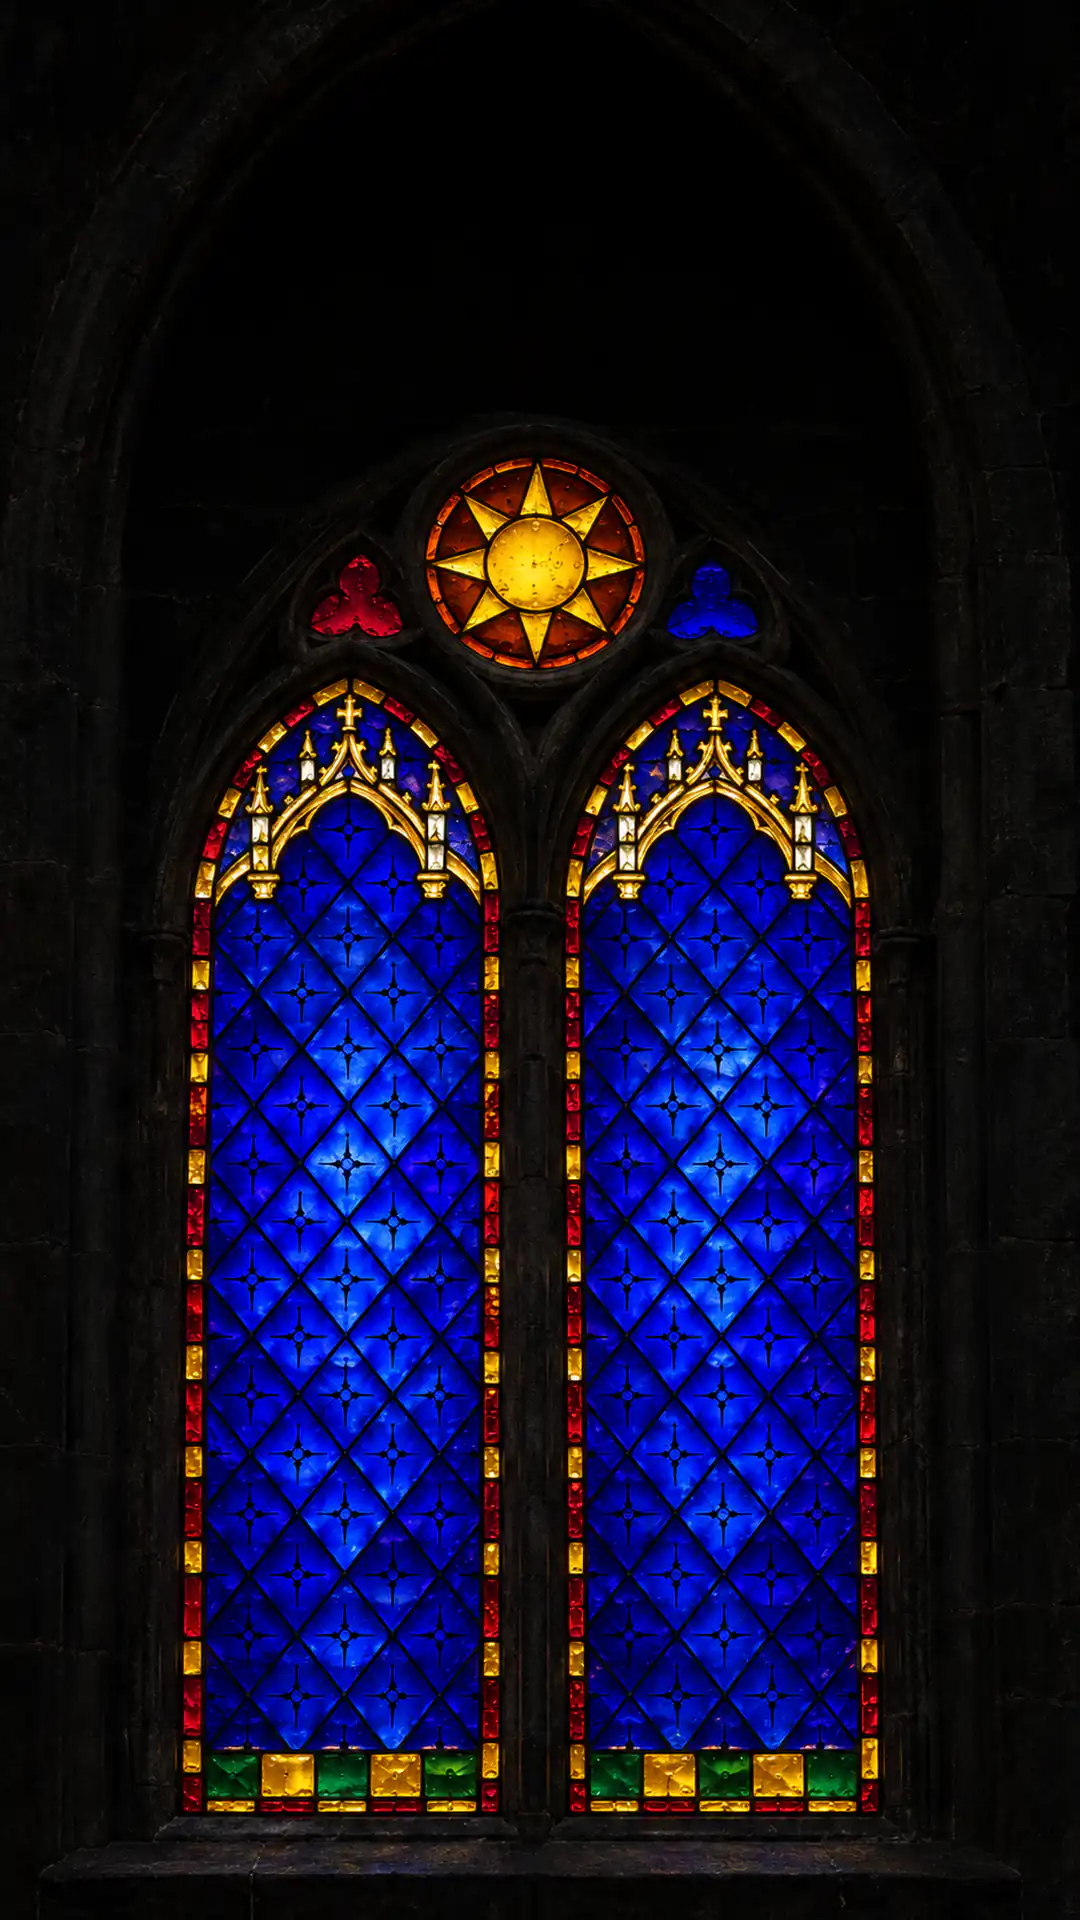
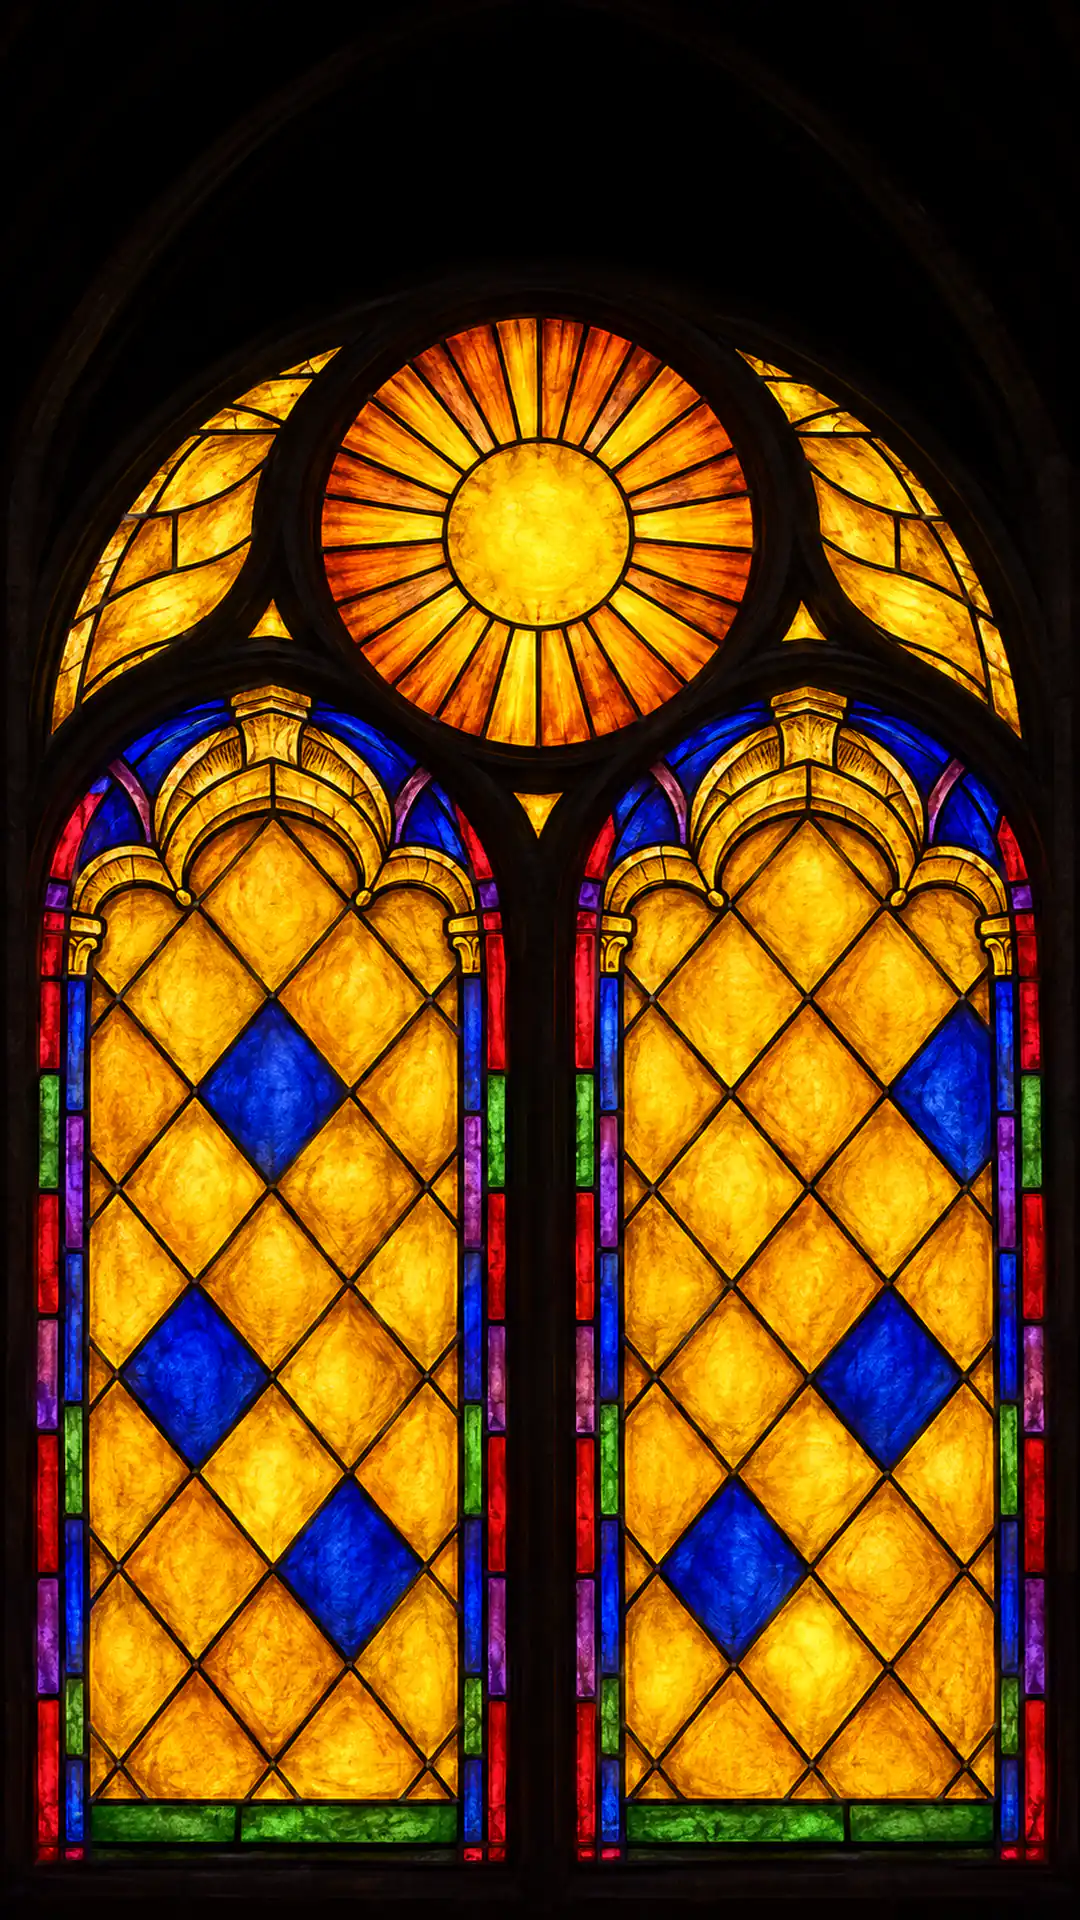
feat(pond): make the chosen gold window the stained glass bed
Of the six candidates drawn after the owner's photograph, wide-2 and
tall-2 were chosen: a gold diaper ground with a fine painted sprig on
each quarry, a few cobalt quarries, jewel borders and gold canopies.
They become bed.webp and bed-tall.webp, enlarged from the lossless
originals and not generated again.

The wide bed has its line in the size check (271 KB): below quality
75 the painted sprigs smear. The upright one is 175 KB against the
120 asked, for the same reason.

bed-right.webp is the candidate the brief asks for beside the bed:
the same picture at nine tenths, set to the right and bottom, the
wall carried on left and above, so the window starts at 39% of the
width and stands clear of the top with no glass redrawn.

The six review pictures are removed; their report and prompts stay.

diff --git a/docs/agents/pond.md b/docs/agents/pond.md
@@ -1085,12 +1085,12 @@ Everything else is ruled in the shader. Nothing more wanted.
 ground with fine painted motifs, a few cobalt quarries, jewel borders and gold canopies. They are
 the best painted of the six and nearest his photograph; wide-3 and tall-3 are cleaner but their
 yellow is flat. What to do now, in this order:
-1. Promote the pair as they are: wide-2 becomes `bed.webp` (2048 × 1152) and tall-2 `bed-tall.webp`
+1. **Done.** Promote the pair as they are: wide-2 becomes `bed.webp` (2048 × 1152) and tall-2 `bed-tall.webp`
    (1080 × 1920) in the stained folder, enlarged from the lossless originals, not from the review
    copies, within 300 KB and 120 KB. Do not generate them again: these two are the ones chosen. In
    the bed's table say where the glass lies (the lancets' fields, the round light) in pixels.
    Then remove the six review pictures; keep the report and the prompts.
-2. Only if it can be done without losing this glass, offer beside it (as a candidate, not in its
+2. **Done, as `bed-right.webp`.** Only if it can be done without losing this glass, offer beside it (as a candidate, not in its
    place) a wide bed whose window starts at 36% of the width or later and stands a little clear
    of the top: in wide-2 it starts at 29% and its heads touch the top edge. If not, say so; the
    cloud thread can set the picture a little to the right in code.
@@ -1186,8 +1186,9 @@ What has come, in `public/pond/stained/`, all made by the image model. Only the 
 
 | File | Size | What is in it |
 | --- | --- | --- |
-| `bed.webp` | 2048 × 1152, 156 KB | Third version, colour in the dark; the second was a pale grisaille, the first a Tiffany panel. A window seen straight on from inside a dark church, opaque to every edge, three quarters of it black. Three lancets with pointed heads between black mullions, their cobalt fields at x 826 to 1036, 1171 to 1381 and 1527 to 1735, from y 308 to 1020; the glass in all runs from y 68 to 1078 and x 807 to 1753. Each lancet: a border of ruby and gold pieces, a canopy in gold and white on purple at its head, a field of cobalt diamond quarries (`#000BCD`, brightest at the middle) each with a small painted lozenge, empty, and a low band of green and gold at its foot. Two ruby quatrefoils above, between the heads. The left 800 pixels are black wall with no courses to see and almost no coloured light on it (a faint glow by the window's edge only). Made at 1672 × 941 and enlarged. The stone is nearly invisible, so the window floats in black more than it sits in a wall; the canopies are small. |
-| `bed-tall.webp` | 1080 × 1920, 119 KB | Third version: a two-light window under one pointed arch, composed for the upright page, not a crop. Two lancets, their cobalt fields at x 211 to 478 and 587 to 854, from y 884 to 1749, bordered, canopied and footed as the wide one's are; above and between them a round light, a true circle about 110 pixels in radius with its centre near (543, 560), holding a gold sun with pointed rays on orange and ruby; a ruby trefoil and a blue one at its shoulders. The glass runs from y 496 to 1870; the top quarter is black stone under the arch, whose mouldings show faintly. Its quarries carry a small four-pointed star where the wide one has a lozenge, and its stone shows a little more. Encoded at quality 50 to meet the 120 KB asked. |
+| `bed.webp` | 2048 × 1152, 271 KB | Fourth version, the one chosen: wide-2 of the candidates drawn after the owner's photograph, enlarged from its 1672 × 941 original. A window in a dark wall, straight on, opaque to every edge. Three broad lancets with pointed heads between black mullions; their glass lies at x 681 to 1025, 1154 to 1497 and 1625 to 1970, from y 21 to 1118, the gold ground inside each border from about y 185 to 1080 and the green foot below it. The ground is gold diamond quarries about 110 pixels wide and 140 tall (`#E99C06`, brighter at each quarry's middle), each with a fine painted sprig, and four cobalt quarries to a lancet; a border of ruby, green, purple and blue pieces; a gold canopy on blue at each head; a band of green at each foot; two small gold lights between the heads. The left 600 pixels are near-black wall with faint courses. The heads stand 21 pixels from the top edge and the stone arch over them is cut by it; there is no round light or sun in the wide one. It has its line in the size check: below quality 75 the painted sprigs smear. |
+| `bed-right.webp` | 2048 × 1152, 194 KB | A candidate beside `bed.webp`, not in its place: the same picture at nine tenths, set against the right and bottom edges, with the wall carried on to the left (mirrored) and above (a band of the same wall), so no glass is lost or redrawn. The glass lies at x 818 to 1127, 1243 to 1552 and 1667 to 1977, from y 135 to 1121: the window starts at 39% of the width and stands 135 pixels clear of the top. The quarries are about 100 × 125. The stone arch over the heads still ends at a line, now at y 115, which shows only when the picture is much brightened. Encoded at quality 58 to stay within the budget, so its sprigs are a little softer than the bed's. |
+| `bed-tall.webp` | 1080 × 1920, 175 KB | Fourth version, the one chosen: tall-2 of the candidates, enlarged from its 941 × 1672 original; the owner's photograph's design without its figures. Two broad lancets, their glass at x 89 to 458 and 624 to 994, from about y 690 to 1841, the gold ground from about y 835 to 1800, with the same quarries, cobalt pieces, borders, canopies and green feet as the wide one. Above and between them a round light, a true circle about 215 pixels in radius with its centre near (537, 532), holding a gold sun with rays going out to orange; a tracery light of gold and blue quarries at each shoulder. The glass begins at y 340; above it is dark stone under the arch. Over the 120 KB asked for: at quality 28, which meets it, the painted sprigs are gone, so it is at quality 45. |
 | `koi.webp` | 1024 × 1536, 194 KB | Four koi from straight above in rows of 384, heads to the left, each from the barbels at x 62 to the tail tip at x 962, the spine on its row's middle line, the paint from 24 to 359 down each row (25 pixels clear). The second version: the first was nine flat pieces a fish. Each is some 150 pieces of glass in black lead: scales as rows of arcs across the body, about seven across at the widest and some twenty rows along it, each scale a tone of its own; a head of several pieces with painted eyes and two barbels; each of the four fins a fan of six to eight ribbed pieces, the forked tail one of a dozen. No lead runs along the spine. Row 1: ambers, golds and orange, a deeper piece on the brow. Row 2: milk-white, with one ruby piece on the brow. Rows 3 and 4: greys. All four are one cutting, the last three made from the first. The body is a fifth as wide as the fish is long. The glass is crinkled more than streaked, and its grain is softened by half a pixel to bring the file within the budget; the white koi's glass varies little; the fins of a pair differ a little. |
 | `koi-mask.webp` | 1024 × 1536, 8 KB | White over the patches to tint, soft by 2 pixels, black elsewhere, cut from the same pictures as the koi (the patches were painted magenta, then turned to a middle grey), so it lines up to the pixel. Each patch is a group of neighbouring scales with the leads between them. Row 3: four patches on the back, from the shoulder to two thirds along (16% of the fish). Row 4: three (9%). The patches follow the scales' edges, so their outlines are ragged; none is on a head, a fin or a tail, and row 4's are small. |
 | `dragon.webp` | 2048 × 512, 125 KB | The Dragon Gate's dragon in glass and lead: head to the left, the spine on y 256, the snout's tip at x 64 and the tail's at x 1984, one straight picture scaled evenly to those two points. Amber and gold scales as small leaded pieces in rows of arcs, about four across the body, a chain of ruby pieces down the spine, a ruby mane and tail flame, a cream muzzle, antlers, whiskers and claws, painted eyes under brows. Paint from y 111 to 401; legs at x 446 and x 1021, the claws 145 pixels from the spine. The trunk is about 140 pixels across behind the shoulders, broader than the 100 asked for; the muzzle is short and scrolled; the outer lead is heavier than the inner ones, and the glass's streaks are dense, nearer marbled enamel in places. |
